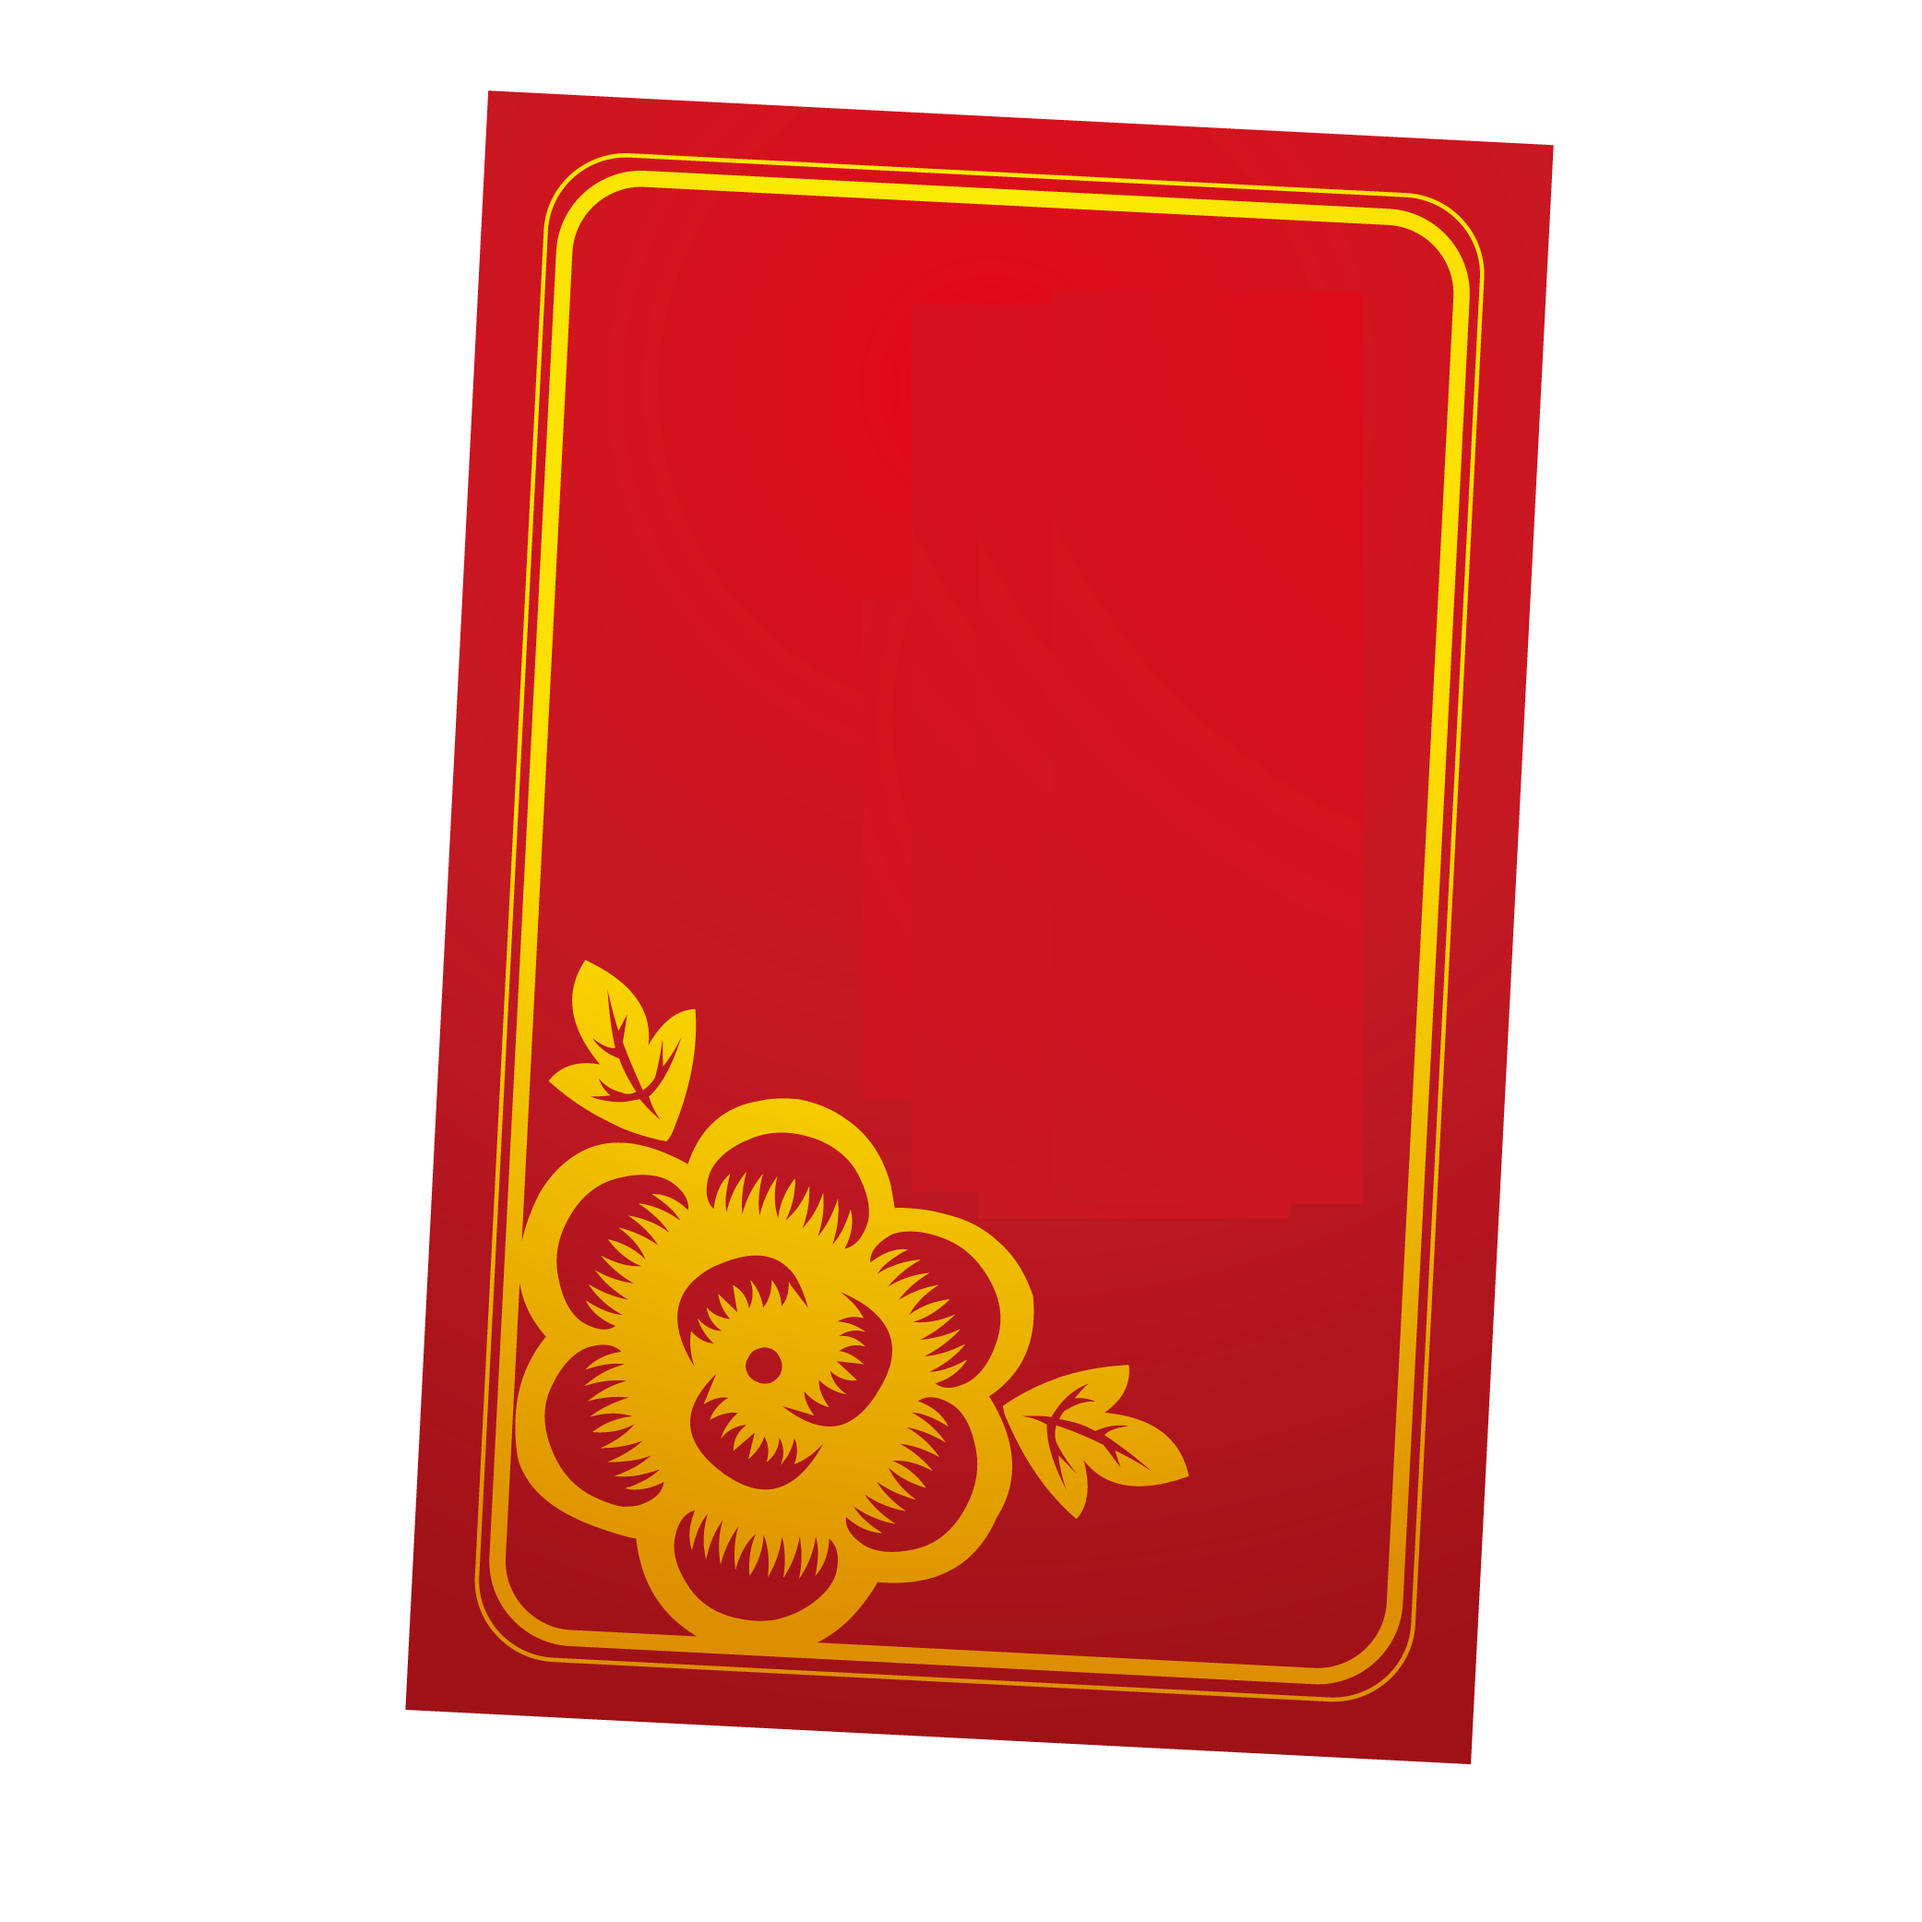
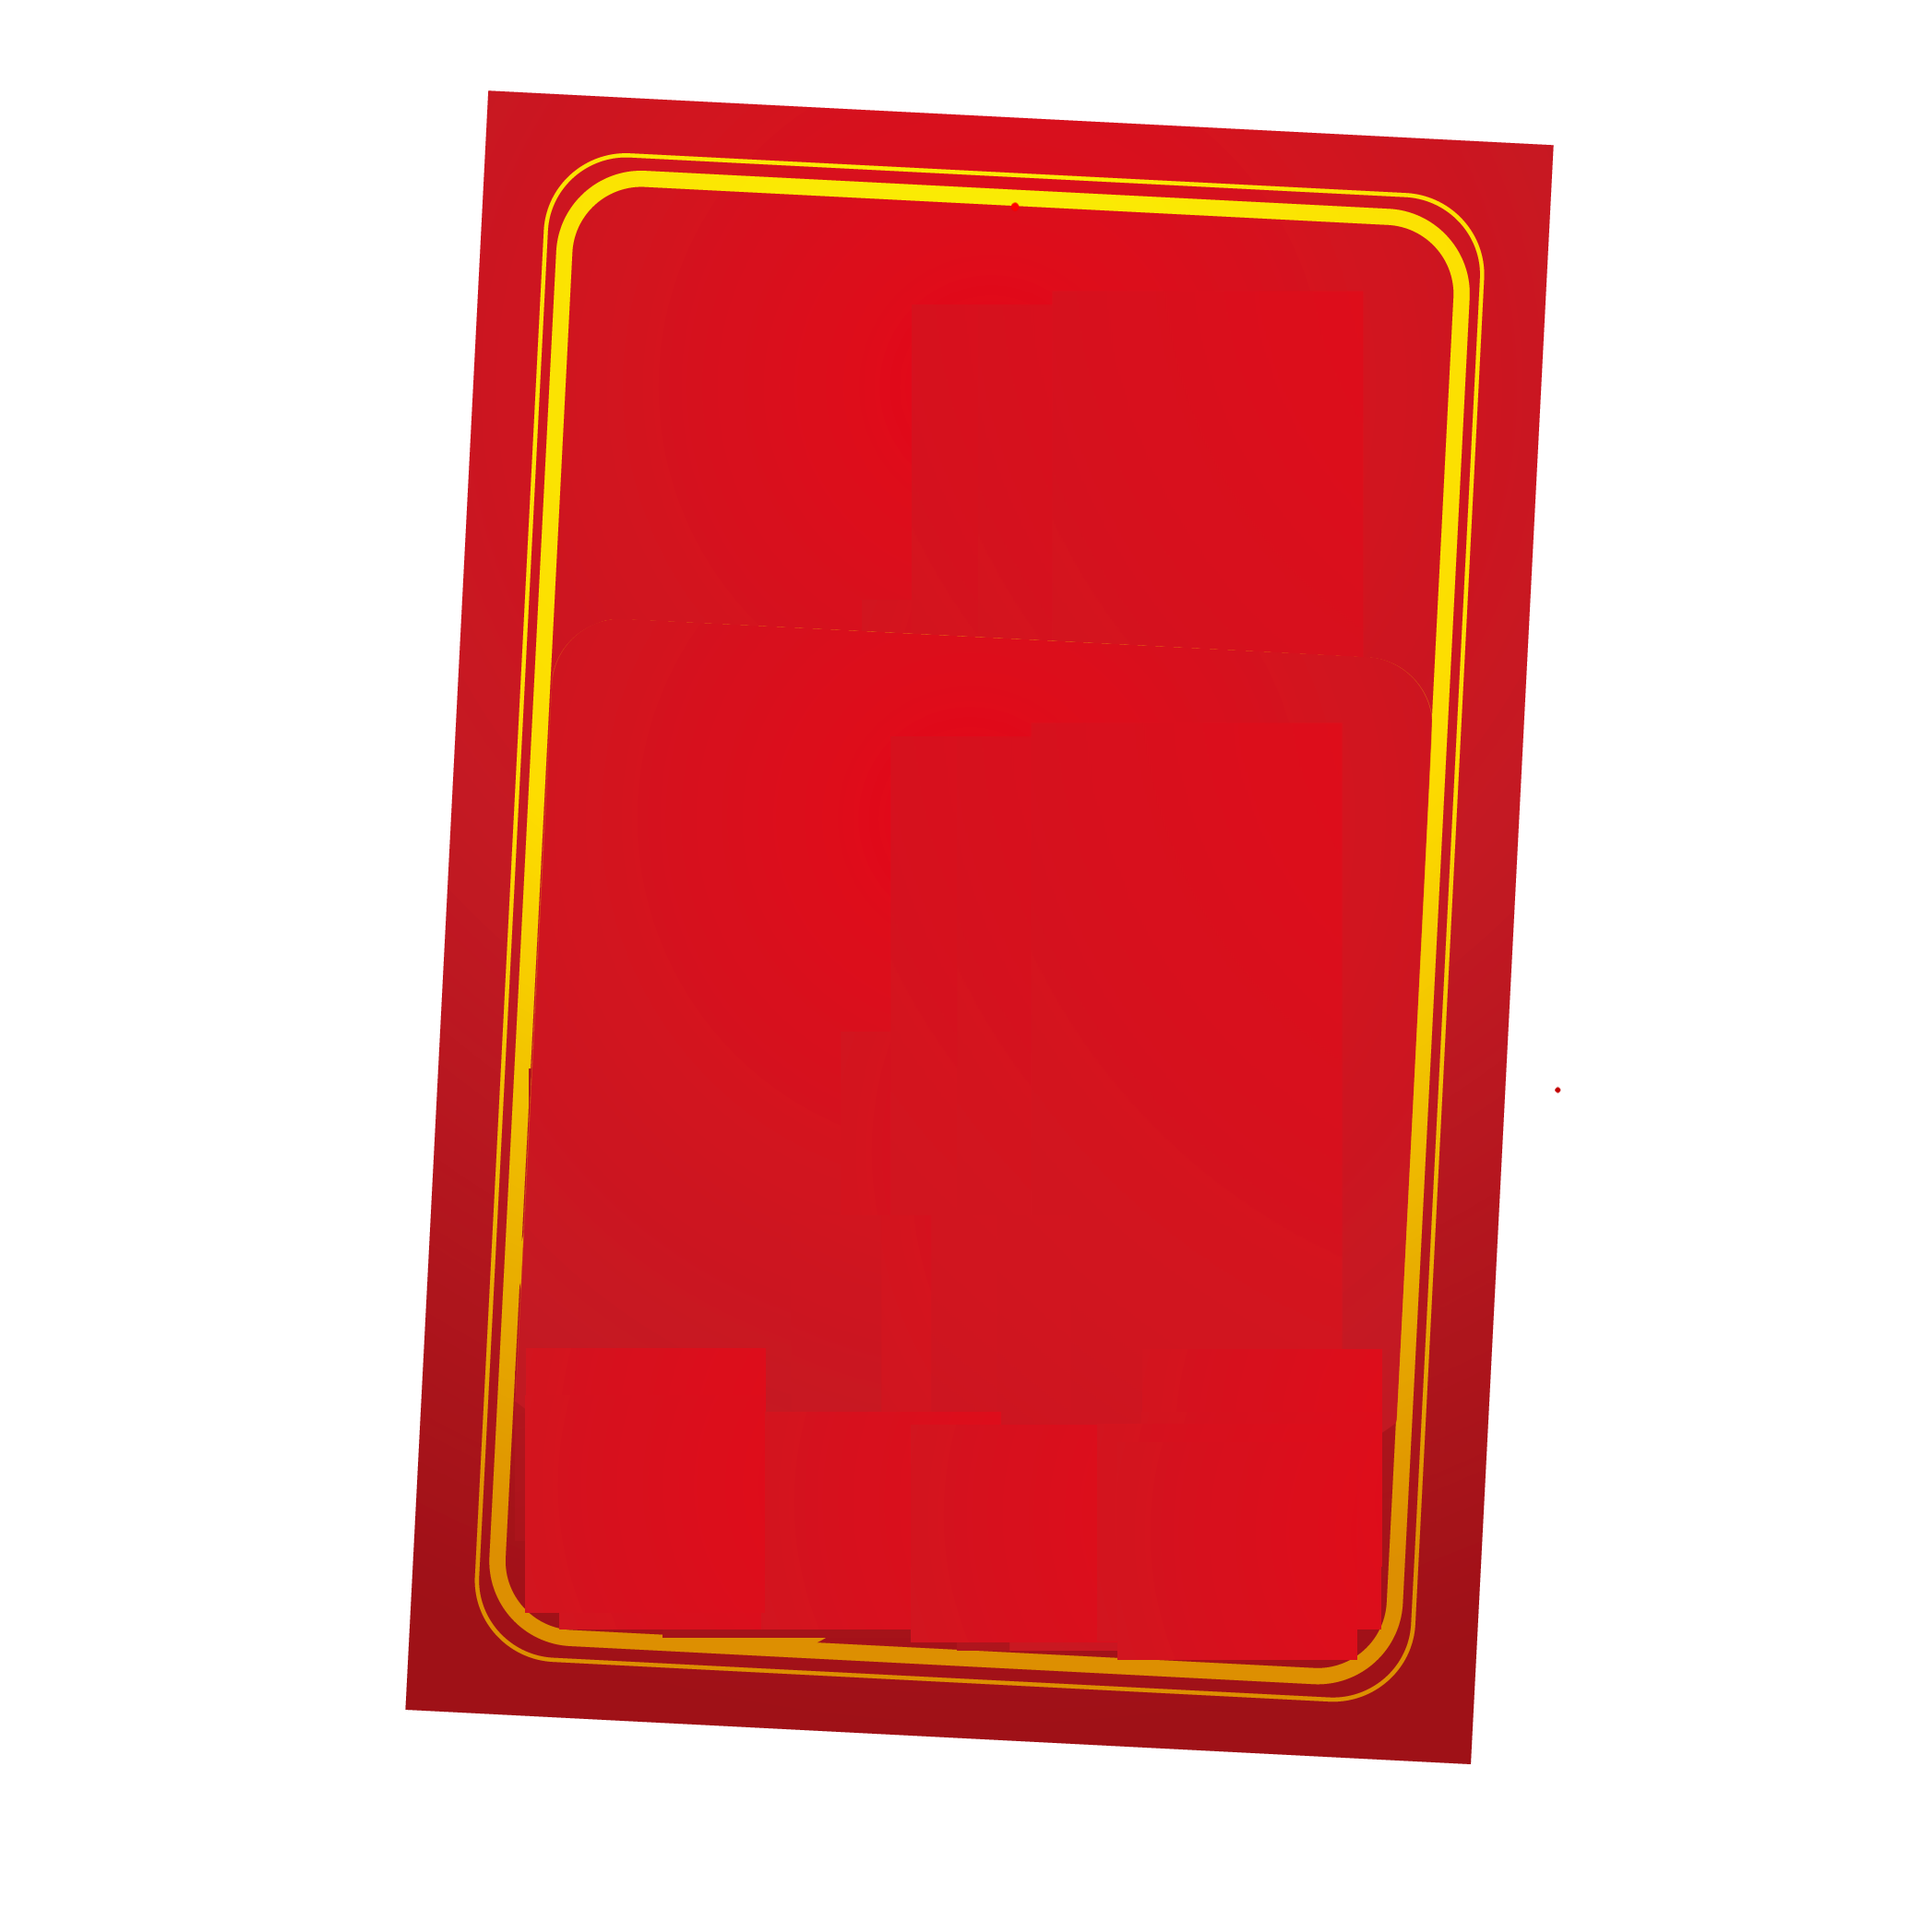
added lotto and style change on card

Changed region(s): [[0.2496, 0.4993, 0.7177, 0.8737]]

diff --git a/src/scss/_modules.scss b/src/scss/_modules.scss
@@ -98,3 +98,95 @@
   width: 400px;
   height: 600px;
 }
+
+.cameraText {
+  font-size: 30px;
+}
+
+.material-icons.md-48 { font-size: 48px; }
+
+#userName {
+  color:gold;
+}
+
+.container {
+  position: relative;
+  text-align: center;
+  color: white;
+}
+
+.bottom-left {
+  position: absolute;
+  bottom: 15%;
+  left: 25%;
+  transform: rotate(4deg);
+}
+
+.top-left {
+  position: absolute;
+  top: 8%;
+  left: 28%;
+  transform: rotate(4deg);
+}
+
+.top-right {
+  position: absolute;
+  top: 10%;
+  right: 25%;
+  transform: rotate(4deg);
+}
+
+.bottom-right {
+  position: absolute;
+  bottom: 12%;
+  right: 25%;
+  transform: rotate(4deg);
+}
+
+.centered {
+  position: absolute;
+  max-width: 300px;
+  top: 15%;
+  left: 33%;
+  transform: translate(-50%, -50%);
+  transform: rotate(3deg);
+  text-shadow: 2px 2px #000000;
+  font-size: 25px;
+}
+
+.domTitle {
+  position: absolute;
+  max-width: 300px;
+  top: 15%;
+  left: 33%;
+  transform: translate(-50%, -50%);
+  transform: rotate(3deg);
+  text-shadow: 2px 2px #000000;
+  font-size: 25px;
+}
+
+#domTitle {
+  display:block;
+  font-size: 40px;
+  text-shadow: 2px 2px #000000;
+  color: gold;
+}
+
+.lottoText {
+  position: absolute;
+  max-width: 300px;
+  top: 75%;
+  left: 31%;
+  transform: translate(-50%, -50%);
+  transform: rotate(3deg);
+  text-shadow: 2px 2px #000000;
+  font-size: 25px;
+}
+
+#lottoNumbers {
+  color: white;
+  display:block;
+  font-size: 35px;
+  text-shadow: 2px 2px #000000;
+  color: gold;
+}

diff --git a/src/components/webcamcapture.js b/src/components/webcamcapture.js
@@ -2,6 +2,7 @@ import React from 'react';
 import Webcam from 'react-webcam';
 import Zoom from 'react-reveal/Zoom';
 import Slide from 'react-reveal/Slide';
+import SvgIcon from '@material-ui/core/SvgIcon';
 
 /** WebcamCapture Component 
  * Get user's picture from user and set 'imgData' state for App
@@ -27,8 +28,8 @@ class WebcamCapture extends React.Component {
     };
 
     return (
-     <React.Fragment>
-       <Zoom>
+      <React.Fragment>
+        <Zoom>
           <div className="webcam-container">
             <Webcam
               audio={false}
@@ -40,14 +41,15 @@ class WebcamCapture extends React.Component {
             />
         </div>
         </Zoom>
-        <div
-          style={{
+        <div style={{
               position: 'absolute', 
               left: '50%', 
-              top: '75%',
+              top: '85%',
               transform: 'translate(-50%, -50%)'
           }}>
-          Press Enter
+          <span class="cameraText">Click </span>
+          <i class="material-icons md-48" onClick={this.capture}>photo_camera</i>
+          <span class="cameraText"> Me!</span>
           </div>
         {/* <Slide top>
           <img height="420" width="350" src={require('../images/btn.gif')} onClick={this.capture}/>

diff --git a/src/components/results.js b/src/components/results.js
@@ -30,8 +30,8 @@ class Result extends React.Component {
             <div class="top-left"></div>
             <div class="top-right"></div>
             <div class="bottom-right"></div>
-            <div class="centered"><span id="domTitle">{this.props.stat.dominant_attribute}</span>
-            "{this.props.stat.fortune}"</div>
+            <div class="centered"><span id="domTitle">{this.props.stat.dominant_attribute}</span>"{this.props.stat.fortune}"</div>
+            <div class="lottoText">Your Lucky Lotto Numbers: <span id="lottoNumbers">{this.props.stat.lotto}</span></div>
           </div>
           </div>
         </ReactCardFlip>

diff --git a/src/components/homepage.js b/src/components/homepage.js
@@ -13,7 +13,7 @@ class Homepage extends React.Component{
     <>
       <NavBar setURL={this.props.setURL} getUrl={this.props.getUrl} user={this.props.user} />
       <div className ='homePage'>
-        <p> Hi {this.props.userName}!</p>
+        <p> Hi <span id="userName">{this.props.userName}</span>!</p>
         <p>Ready for your fortune?</p>
         <WebCam setData={this.props.setData} setImgData={this.props.setImgData} setURL={this.props.setURL} user={this.props.user}/>
       </div>

diff --git a/src/scss/_base.scss b/src/scss/_base.scss
@@ -1,3 +1,7 @@
 body {
-  
+  /* background:radial-gradient(#c187ff, #fff) fixed; */
+  background-image: url(../images/china-red-1006697_960_720.jpg);
+  background-size: cover;
+  font-size: 20px;
+  font-family: 'Kalam', cursive;
 }

diff --git a/src/scss/_vars.scss b/src/scss/_vars.scss
@@ -11,5 +11,5 @@ $white: #fff;
 $animation_time: 350ms;
 $gutter_std: 1vw;
 $padding_rte: .5vw;
-$font_size: 5vw;
+$font_size: 4vw;
 $mrg:5vw;
